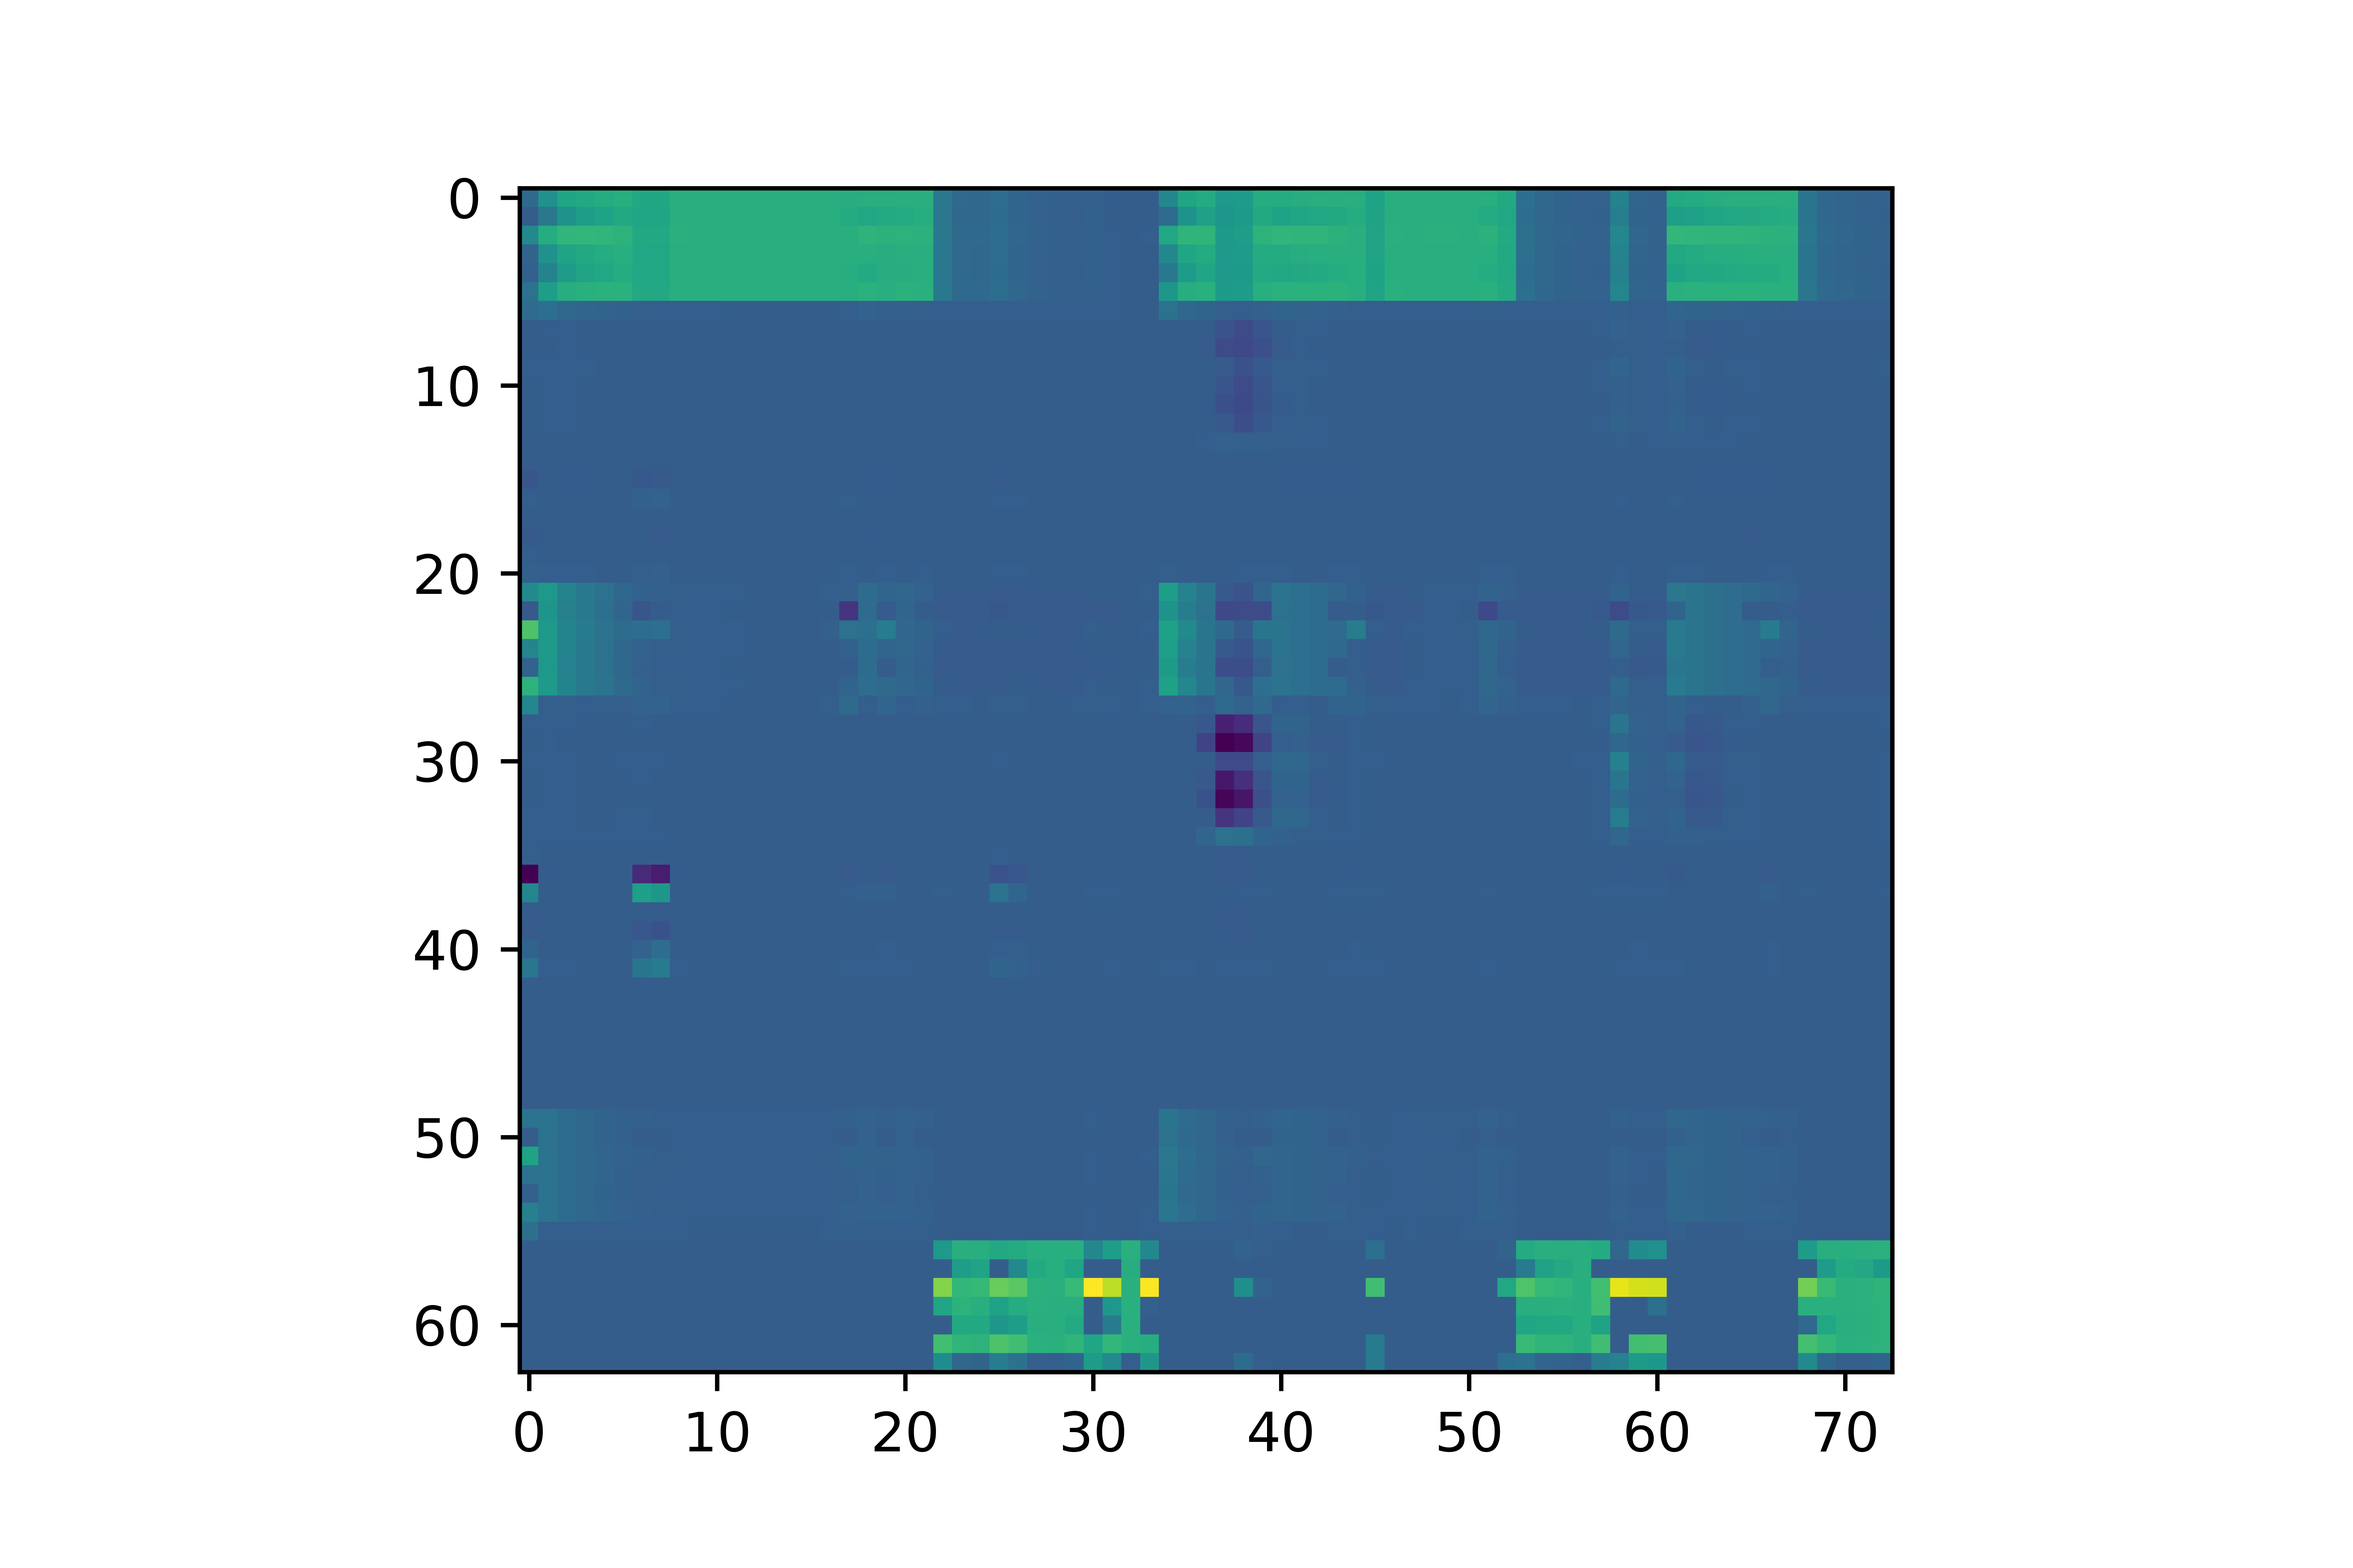
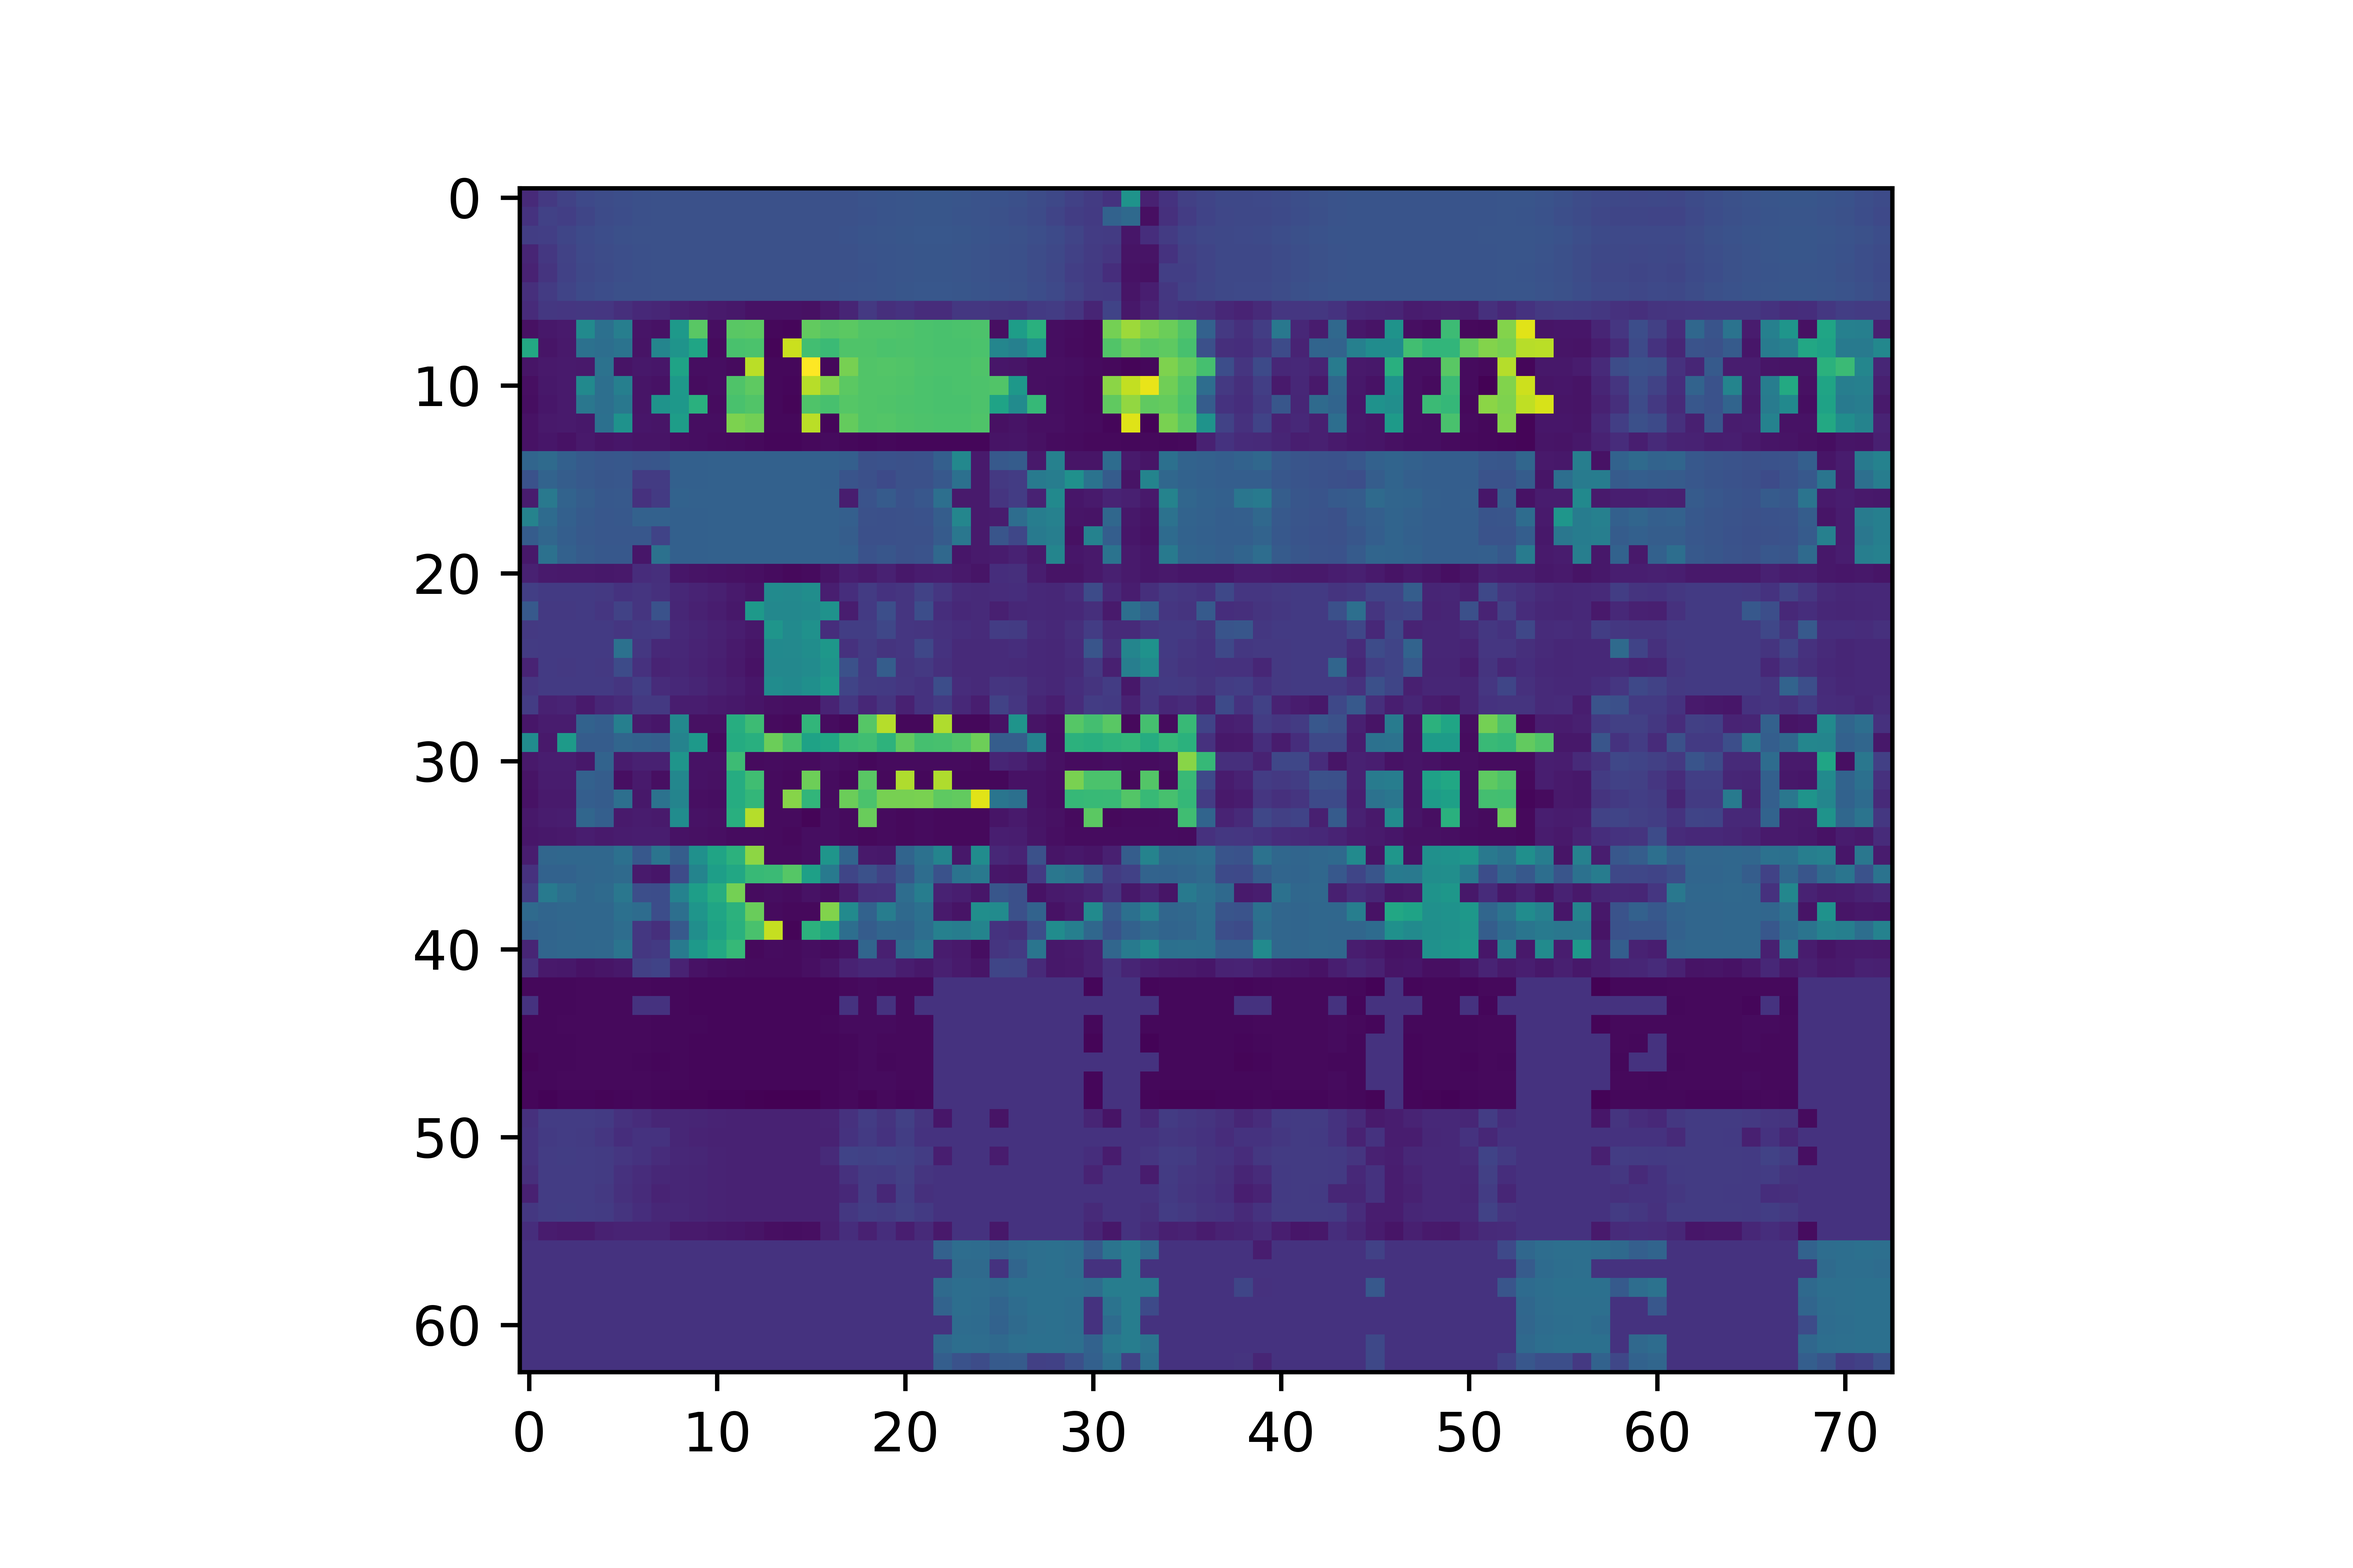
log for better DOP visualisation

diff --git a/bin/serveur.py b/bin/serveur.py
@@ -23,7 +23,13 @@ class process:
         im = DOP.image(data, 20, 7)
         end = time.time()
         print(">> duree dop : " + str(end-start))
-        plt.imshow(im, interpolation='nearest')
+
+        #only for better visual interpretation 
+        imVisu= im.copy()
+        imVisu[imVisu > 0] = np.log(imVisu[imVisu > 0])
+        imVisu[imVisu < 0] = -np.log(-imVisu[imVisu < 0])
+
+        plt.imshow(imVisu, interpolation='nearest')
         plt.show()
 
         
